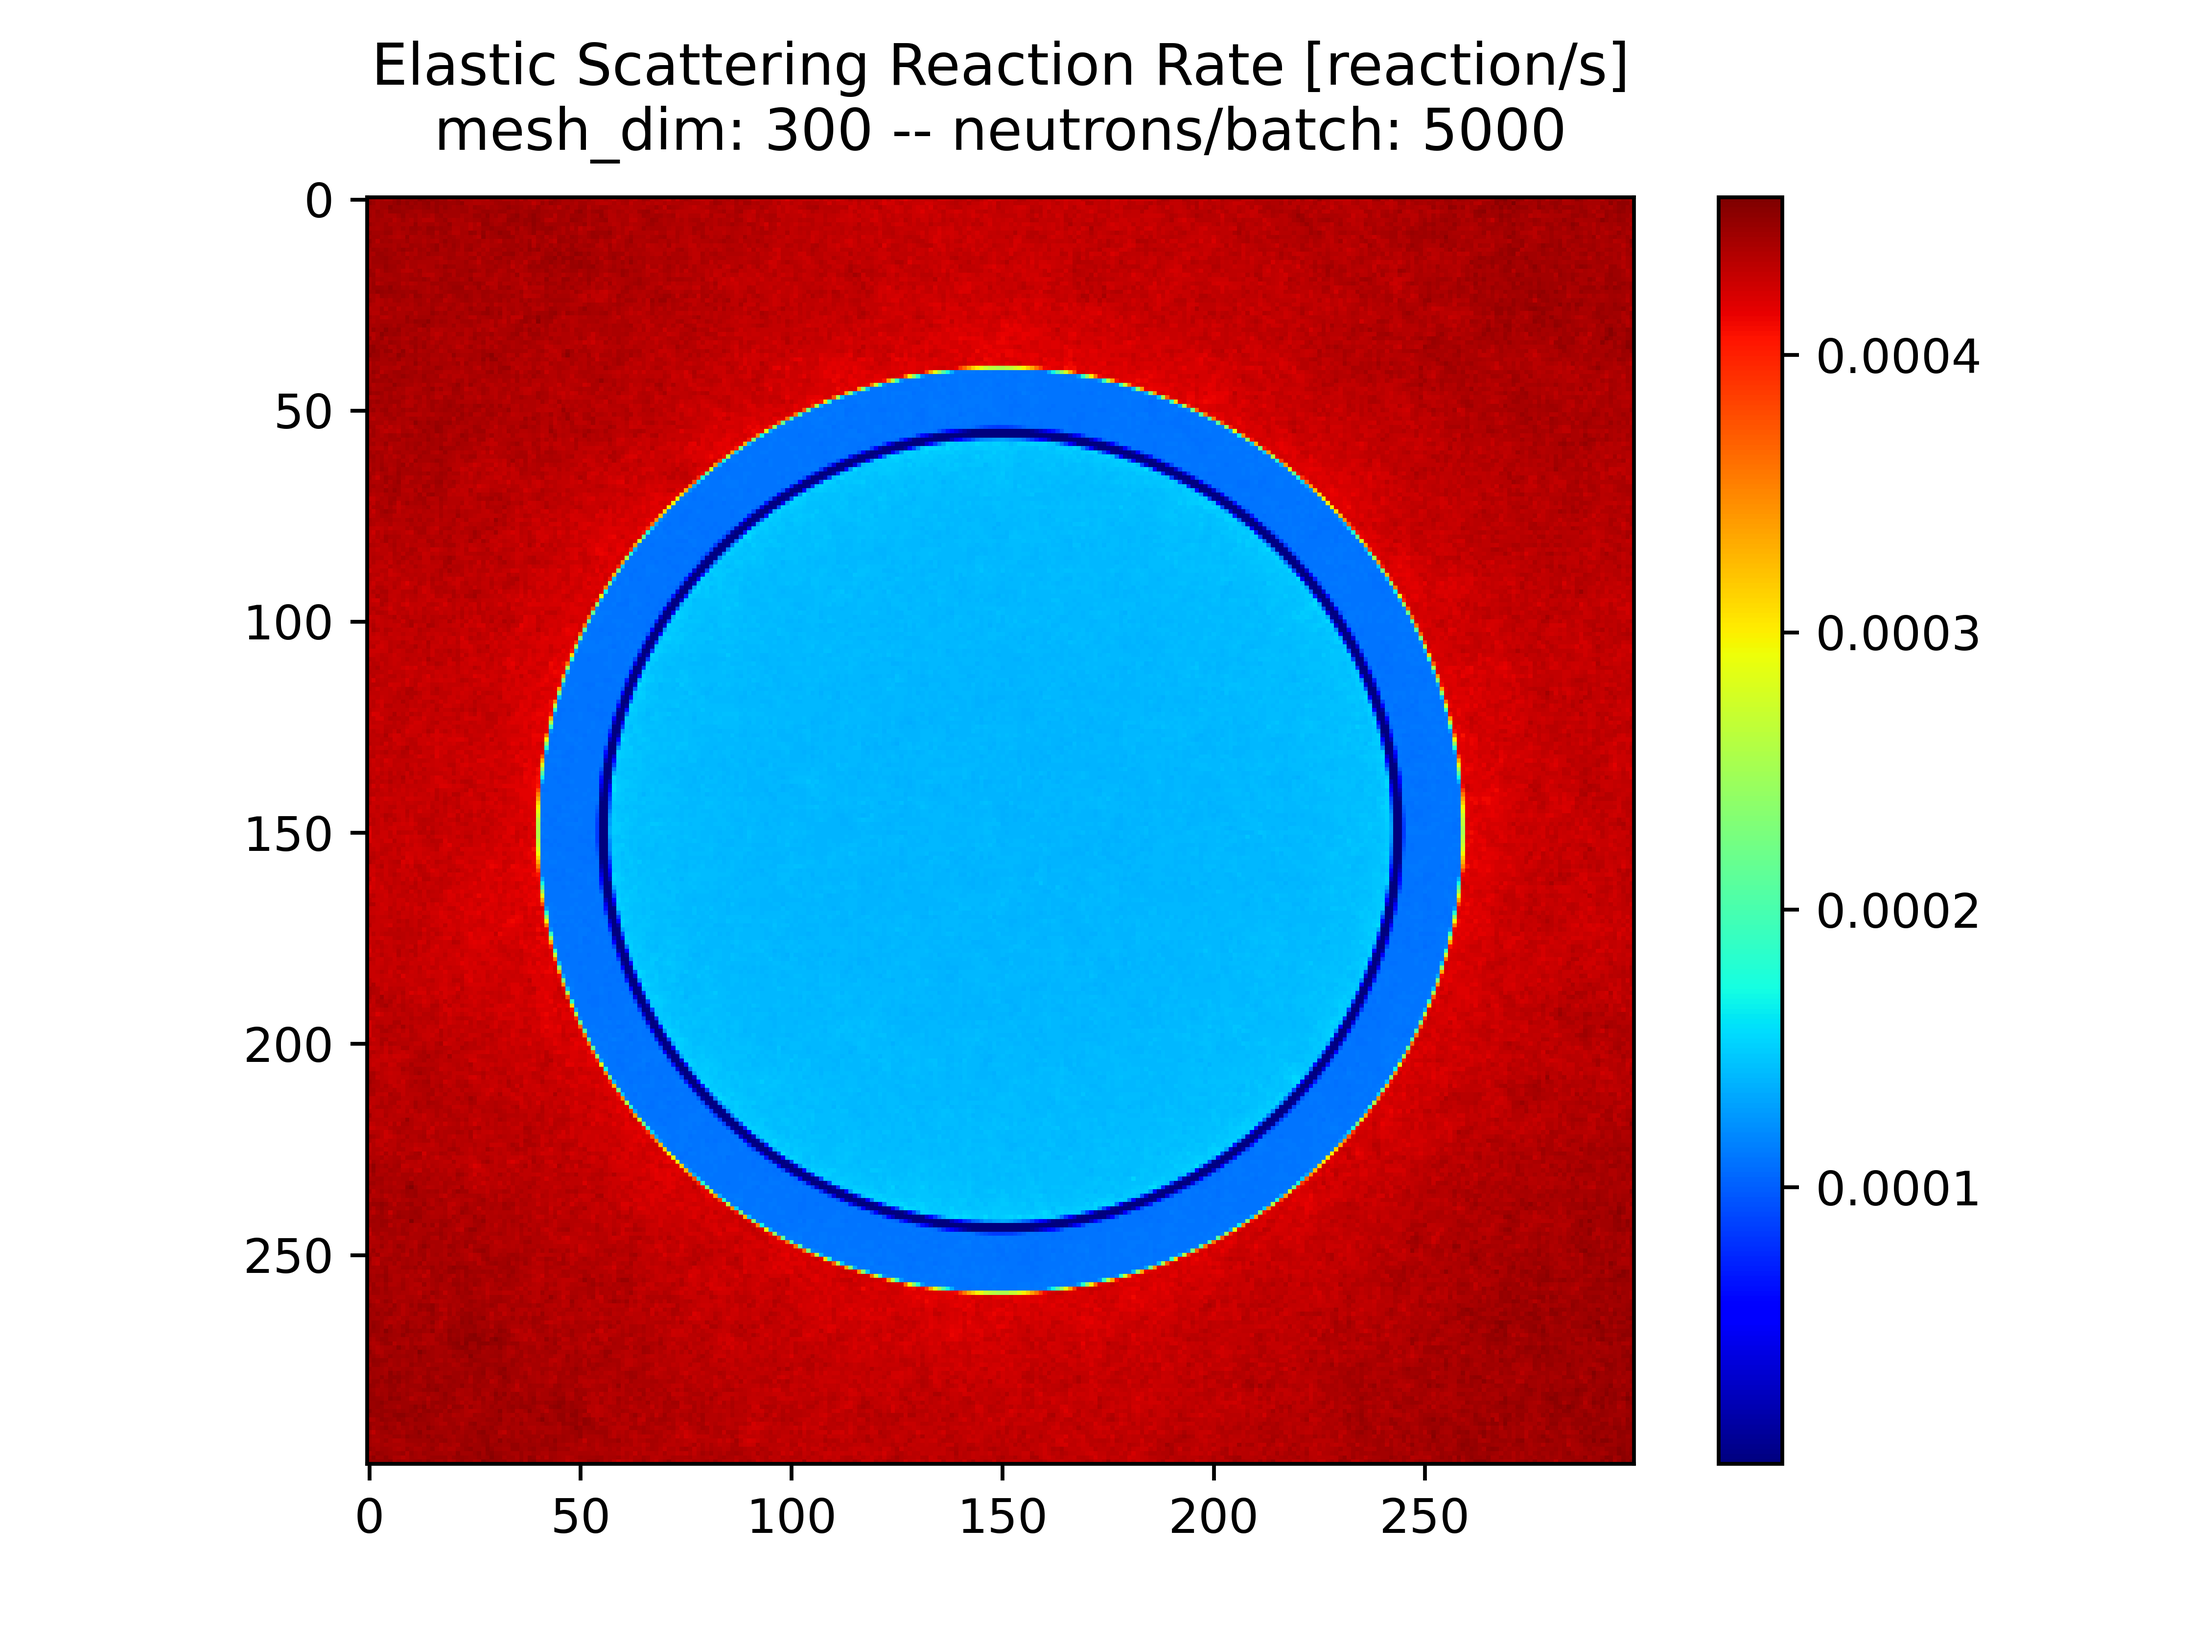
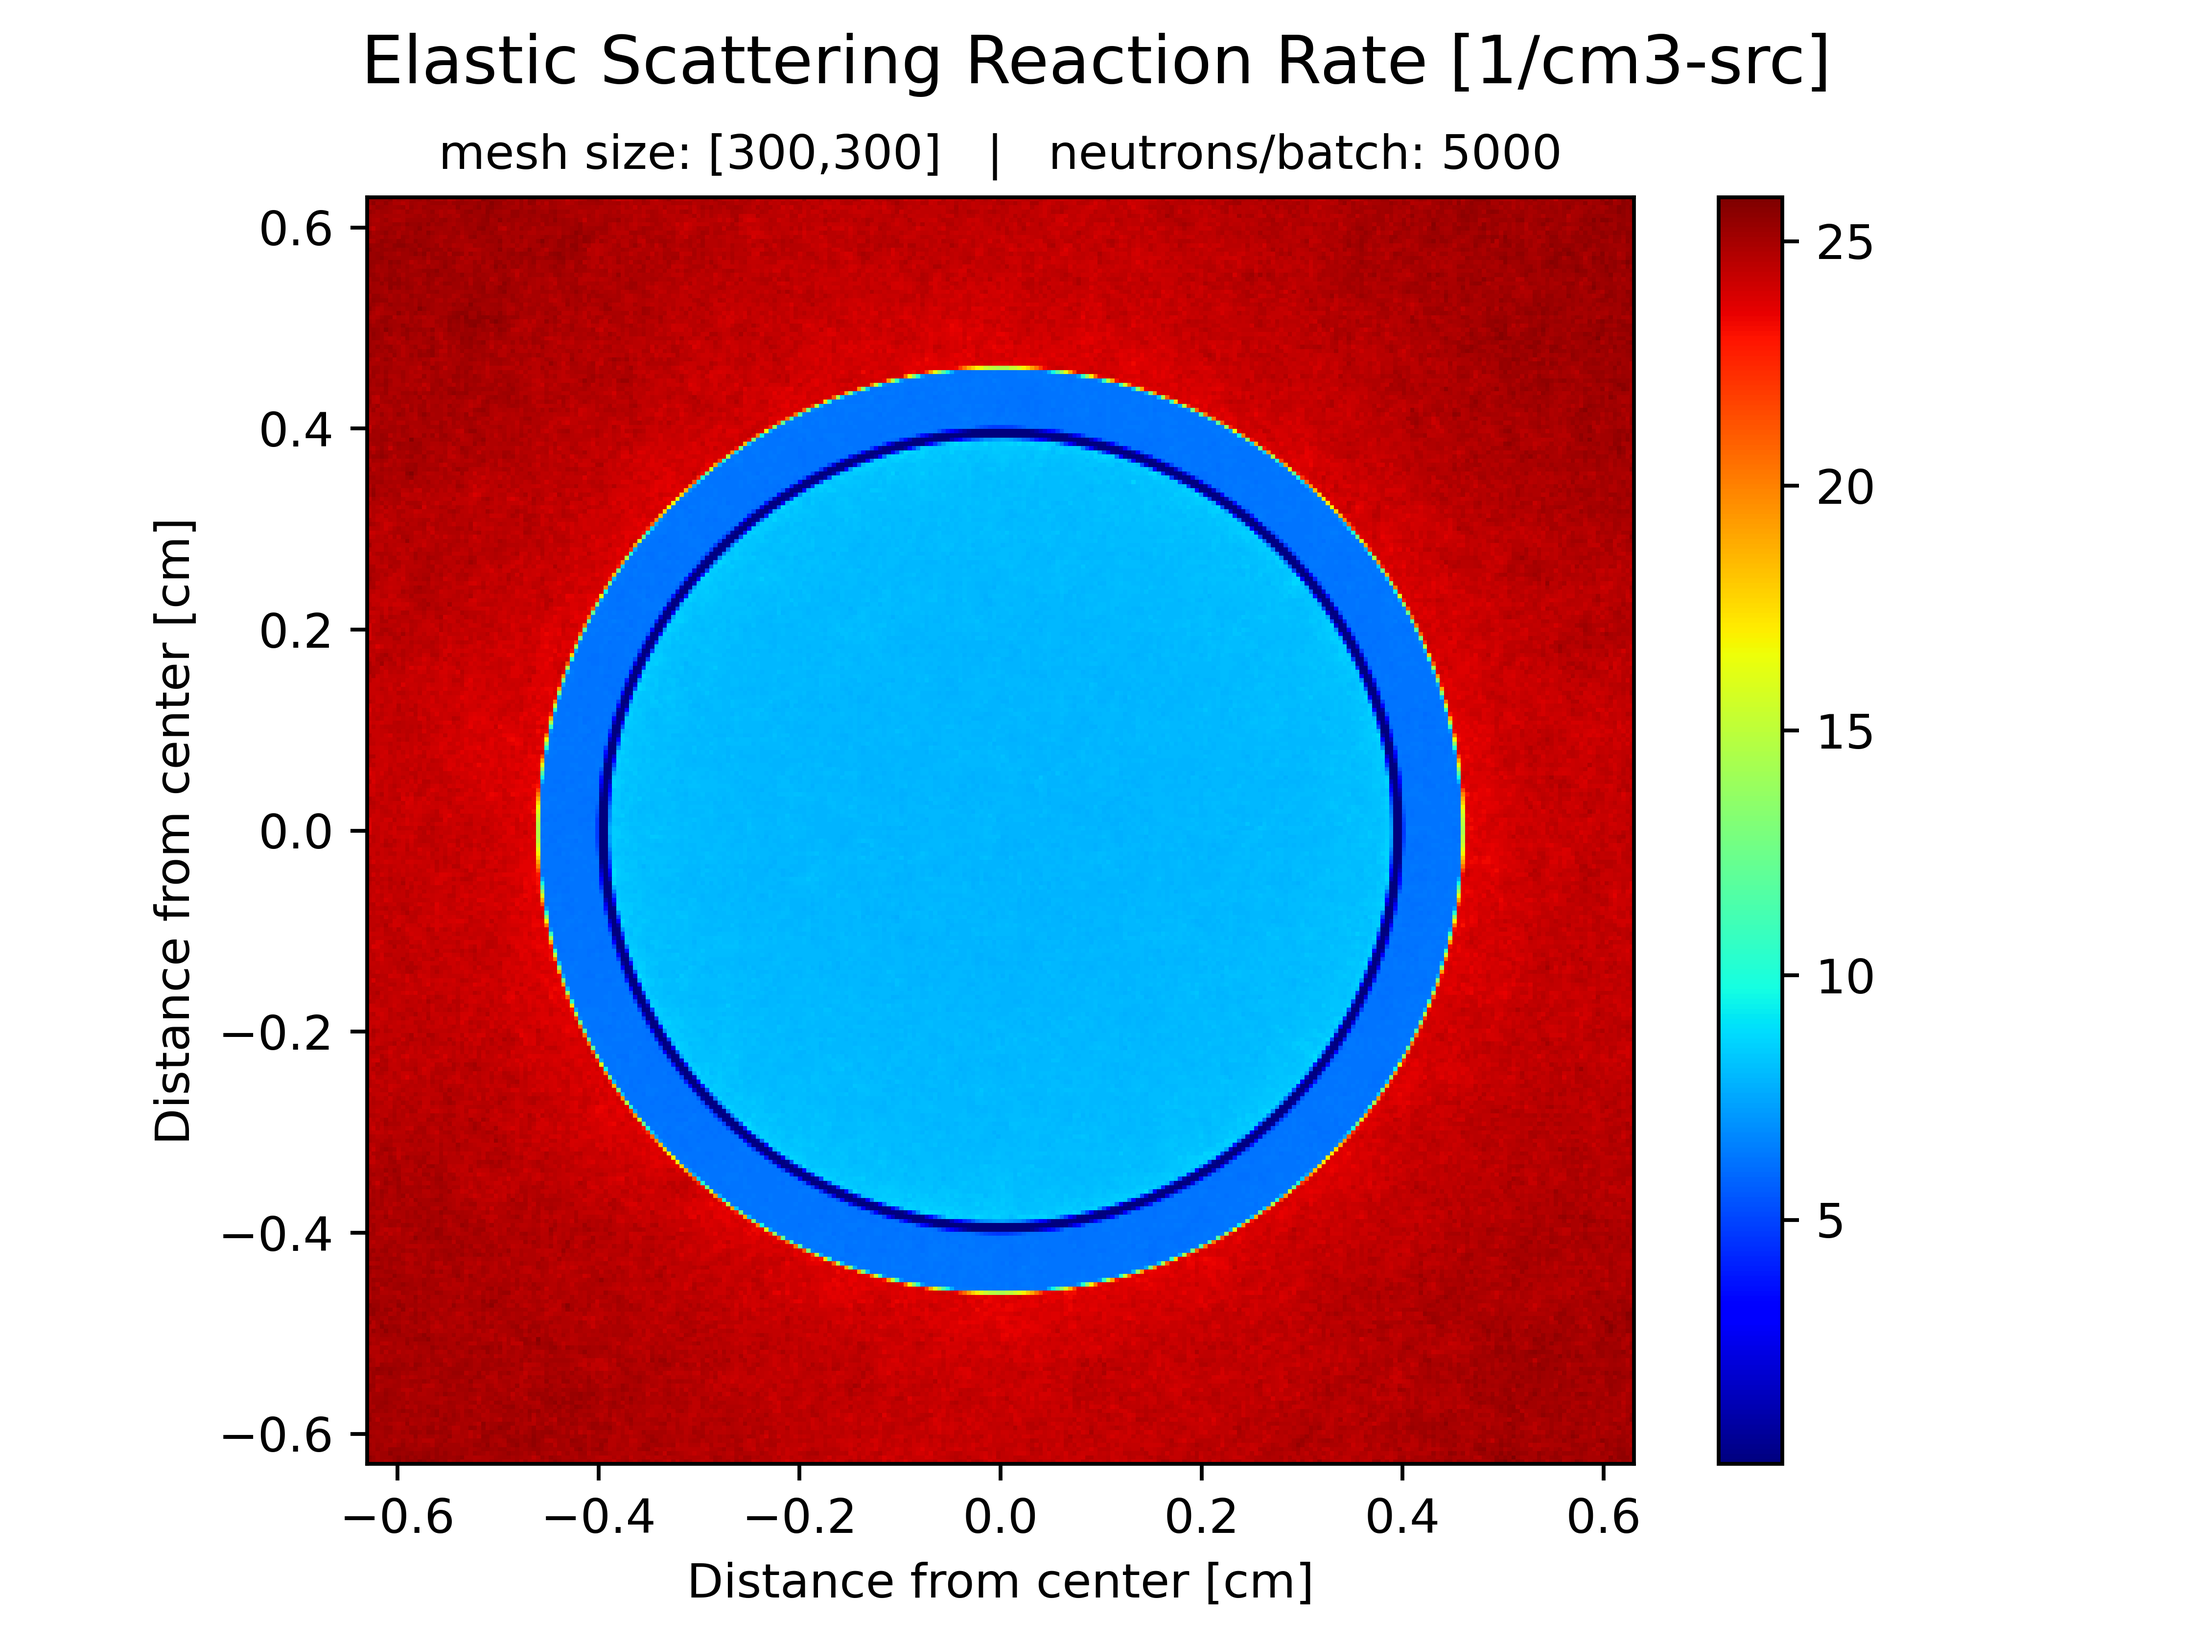
LWR_pincell units corrected

diff --git a/LWR_pincell/main.py b/LWR_pincell/main.py
@@ -16,19 +16,43 @@ import math
 
 #================================================================ FUNCTIONS =============================
 
-def plot_radially(radial_data, xlabel, ylabel, title, alpha=0.5):
+def mesh_plot(mesh_data,title,filename, reduced=False):
+    if reduced:
+        mesh_dim=red_mesh_dimension
+    else:
+        mesh_dim=mesh_dimension
+    plt.imshow(mesh_data, cmap='jet', origin='lower', extent = [-pitch/2,pitch/2,-pitch/2,pitch/2])
+    plt.suptitle(title,fontsize=14)
+    plt.title('mesh size: [{},{}]   |   neutrons/batch: {}'.format(mesh_dim,mesh_dim,neutrons_per_batch),fontsize=10)
+    plt.xlabel('Distance from center [cm]')
+    plt.ylabel('Distance from center [cm]')
+    plt.colorbar()
+    plt.savefig("images/plots/{}.png".format(filename), dpi=700)
+    plt.clf()
+
+
+
+def plot_radially(radial_data, ylabel, title, filename, alpha=0.5, reduced=False):
+    if reduced:
+        mesh_dim = red_mesh_dimension
+    else:
+        mesh_dim = mesh_dimension
     geom_image = mpimg.imread('images/geometry/side_view.ppm')
     fig, axs = plt.subplots(2,1, sharex=True,sharey=True, figsize=(15,10))
-    fig.suptitle('{}'.format(title))
+    fig.suptitle('{}'.format(title), fontsize=19)
+    axs[0].set_title('mesh size: [{},{}]   |   neutrons/batch: {}'.format(mesh_dim,mesh_dim,neutrons_per_batch),fontsize=14, pad=30)
     axs[0].plot(np.linspace(-pitch/2,pitch/2,len(radial_data)),radial_data, 'r-', linewidth=2)
     axs[1].imshow(geom_image, alpha=alpha, origin='lower', extent=[-pitch/2,pitch/2,0,1.2*max(radial_data)])
     axs[1].plot(np.linspace(-pitch/2,pitch/2,len(radial_data)), radial_data,'r-', linewidth=3)
     axs[1].xaxis.tick_top()
     axs[1].xaxis.set_label_position('top')
-    axs[1].set_xlabel('{}'.format(xlabel))
+    axs[1].set_xlabel('Radial distance from center [cm]')
     axs[1].set_aspect('auto')
     for ax in axs:
         ax.set_ylabel('{}'.format(ylabel))
+
+    plt.savefig("images/radial_plots/{}.png".format(filename), dpi=700)
+    plt.clf()
 
 
 U_enr = 5.0
@@ -211,7 +235,7 @@ tallies.append(t_flux_ene)
 tallies.export_to_xml()
 
 #================================================================ RUN SIMULATION ===========================
-openmc.run()
+#openmc.run()
 
 #================================================================ POST PROCESSING ===========================
 
@@ -233,45 +257,31 @@ plt.clf()
 
 
 tally_mesh = sp.get_tally(name='mesh_tally')
+mesh_cell_volume= (pitch/mesh_dimension)**2
+red_mesh_cell_volume= (pitch/red_mesh_dimension)**2
+
 #fission reaction rate
 fission_rr = tally_mesh.get_slice(scores=['fission'])
 fission_rr.mean.shape = (mesh_dimension,mesh_dimension)
+mesh_plot(fission_rr.mean/mesh_cell_volume, 'Fission reaction rate [1/cm3-src]', 'fission_rr')
 
-plt.imshow(fission_rr.mean, cmap='jet')
-plt.title('Fission Reaction Rate [reaction/s]\nmesh_dim: {} -- neutrons/batch: {}'.format(mesh_dimension,neutrons_per_batch), pad=10)
-plt.colorbar()
-plt.savefig("images/plots/fission_RR.png", dpi=700)
-plt.clf()
 
 #scattering reaction rate
 elastic_rr = tally_mesh.get_slice(scores=['(n,elastic)'])
 elastic_rr.mean.shape = (mesh_dimension,mesh_dimension)
+mesh_plot(elastic_rr.mean/mesh_cell_volume, 'Elastic Scattering Reaction Rate [1/cm3-src]', 'elastic_rr')
 
-plt.imshow(elastic_rr.mean, cmap='jet')
-plt.title('Elastic Scattering Reaction Rate [reaction/s]\nmesh_dim: {} -- neutrons/batch: {}'.format(mesh_dimension,neutrons_per_batch), pad=10)
-plt.colorbar()
-plt.savefig("images/plots/elastic_RR.png", dpi=700)
-plt.clf()
 
 #capture reaction rate
 capture_rr = tally_mesh.get_slice(scores=['(n,gamma)'])
 capture_rr.mean.shape = (mesh_dimension,mesh_dimension)
+mesh_plot(capture_rr.mean/mesh_cell_volume, 'Radiative Capture Reaction Rate [1/cm3-src]', 'capture_rr')
 
-plt.imshow(capture_rr.mean, cmap='jet')
-plt.title('Radiative Capture Reaction Rate [reaction/s]\nmesh_dim: {} -- neutrons/batch: {}'.format(mesh_dimension,neutrons_per_batch), pad=10)
-plt.colorbar()
-plt.savefig("images/plots/capture_RR.png", dpi=700)
-plt.clf()
 
 #recoverable energy
 rec_ene = tally_mesh.get_slice(scores=['fission-q-recoverable'])
 rec_ene.mean.shape = (mesh_dimension,mesh_dimension)
-
-plt.imshow(rec_ene.mean, cmap='jet')
-plt.title('Recoverable energy [ev/src]\nmesh_dim: {} -- neutrons/batch: {}'.format(mesh_dimension,neutrons_per_batch), pad=10)
-plt.colorbar()
-plt.savefig("images/plots/recoverable_energy.png", dpi=700)
-plt.clf()
+mesh_plot(rec_ene.mean/mesh_cell_volume, 'Recoverable energy [eV/cm3-src]', 'recoverable_energy')
 
 print('\nTop plots completed...')
 
@@ -283,23 +293,13 @@ radial_elastic = elastic_rr.mean[radial_index,:]
 radial_recene = rec_ene.mean[radial_index,:]
 
 
-plot_radially(radial_fission, title='Radial distribution of fission reaction rate\nmesh_dim: {} -- neutrons/batch: {}'.format(mesh_dimension,neutrons_per_batch), xlabel='Radial Distance [cm]', ylabel='Fission reaction rate [1/s-src]')
-plt.savefig("images/radial_plots/fission_rr.png", dpi=700)
-plt.clf()
+plot_radially(radial_fission/mesh_cell_volume, title='Radial distribution of fission reaction rate [1/cm3-src]', ylabel='Fission reaction rate [1/cm3-src]', filename='fission_rr')
 
+plot_radially(radial_capture/mesh_cell_volume, title='Radial distribution of (n,gamma) reaction rate [1/cm3-src]', ylabel='(n,gamma) reaction rate [1/cm3-src]', filename='capture_rr')
 
-plot_radially(radial_capture, title='Radial distribution of (n,gamma) reaction rate\nmesh_dim: {} -- neutrons/batch: {}'.format(mesh_dimension,neutrons_per_batch), xlabel='Radial Distance [cm]', ylabel='(n,gamma) reaction rate [1/s-src]')
-plt.savefig("images/radial_plots/capture_rr.png", dpi=700)
-plt.clf()
+plot_radially(radial_elastic/mesh_cell_volume, title='Radial distribution of elastic scattering reaction rate [1/cm3-src]', ylabel='Elastic Scattering reaction rate [1/cm3-src]', filename='elastic_rr')
 
-
-plot_radially(radial_elastic, title='Radial distribution of elastic scattering reaction rate\nmesh_dim: {} -- neutrons/batch: {}'.format(mesh_dimension,neutrons_per_batch), xlabel='Radial Distance [cm]', ylabel='Elastic Scattering reaction rate [1/s-src]')
-plt.savefig("images/radial_plots/elastic_rr.png", dpi=700)
-plt.clf()
-
-plot_radially(radial_recene, title='Radial distribution of recoverable energy\nmesh_dim: {} -- neutrons/batch: {}'.format(mesh_dimension,neutrons_per_batch), xlabel='Radial Distance [cm]', ylabel='Recoverable energy [eV/src]')
-plt.savefig("images/radial_plots/recoverable_energy.png", dpi=700)
-plt.clf()
+plot_radially(radial_recene/mesh_cell_volume, title='Radial distribution of recoverable energy [eV/cm3-src]', ylabel='Recoverable energy [eV/cm3-src]', filename='recoverable_energy')
 
 print('\nRadial plots completed...')
 
@@ -309,6 +309,8 @@ df = tally_flux_ene.get_pandas_dataframe()
 
 mean_energy_mesh = np.zeros((red_mesh_dimension,red_mesh_dimension))
 
+#if mean_energy_mesh.csv is not updated then uncomment
+"""
 for i in range(red_mesh_dimension):
     for j in range(red_mesh_dimension):
         crit_pos = (df['mesh 2']['x'] == i+1) & (df['mesh 2']['y'] == j+1)
@@ -321,16 +323,12 @@ for i in range(red_mesh_dimension):
         print('Processing mean neutron energy mesh \t\t Done ({}/{},{})'.format(i,red_mesh_dimension,j))
 
 np.savetxt("mean_energy_mesh.csv", mean_energy_mesh, delimiter=",")
-
+"""
 mean_energy_mesh = np.genfromtxt('mean_energy_mesh.csv', delimiter=',')
 
-plt.imshow(mean_energy_mesh, cmap='jet')
-plt.title('Mean neutron energy [eV]\nmesh_dim: {} -- neutrons/batch: {}'.format(red_mesh_dimension,neutrons_per_batch), pad=10)
-plt.colorbar()
-plt.savefig("images/plots/mean_neutron_energy.png", dpi=700)
-plt.clf()
+
+mesh_plot(mean_energy_mesh, 'Mean neutron energy [eV]', 'mean_neutron_energy', reduced=True)
+
 
 radial_index=int((red_mesh_dimension/2)-1)
-plot_radially(mean_energy_mesh[radial_index,:], title='Mean neutron energy [eV]\nmesh_dim: {} -- neutrons/batch: {}'.format(red_mesh_dimension,neutrons_per_batch), xlabel='Radial Distance [cm]', ylabel='Mean neutron energy [eV]')
-plt.savefig("images/radial_plots/mean_neutron_energy.png", dpi=700)
-plt.clf()
+plot_radially(mean_energy_mesh[radial_index,:], title='Mean neutron energy [eV]', ylabel='Mean neutron energy [eV]', filename='mean_neutron_energy')
